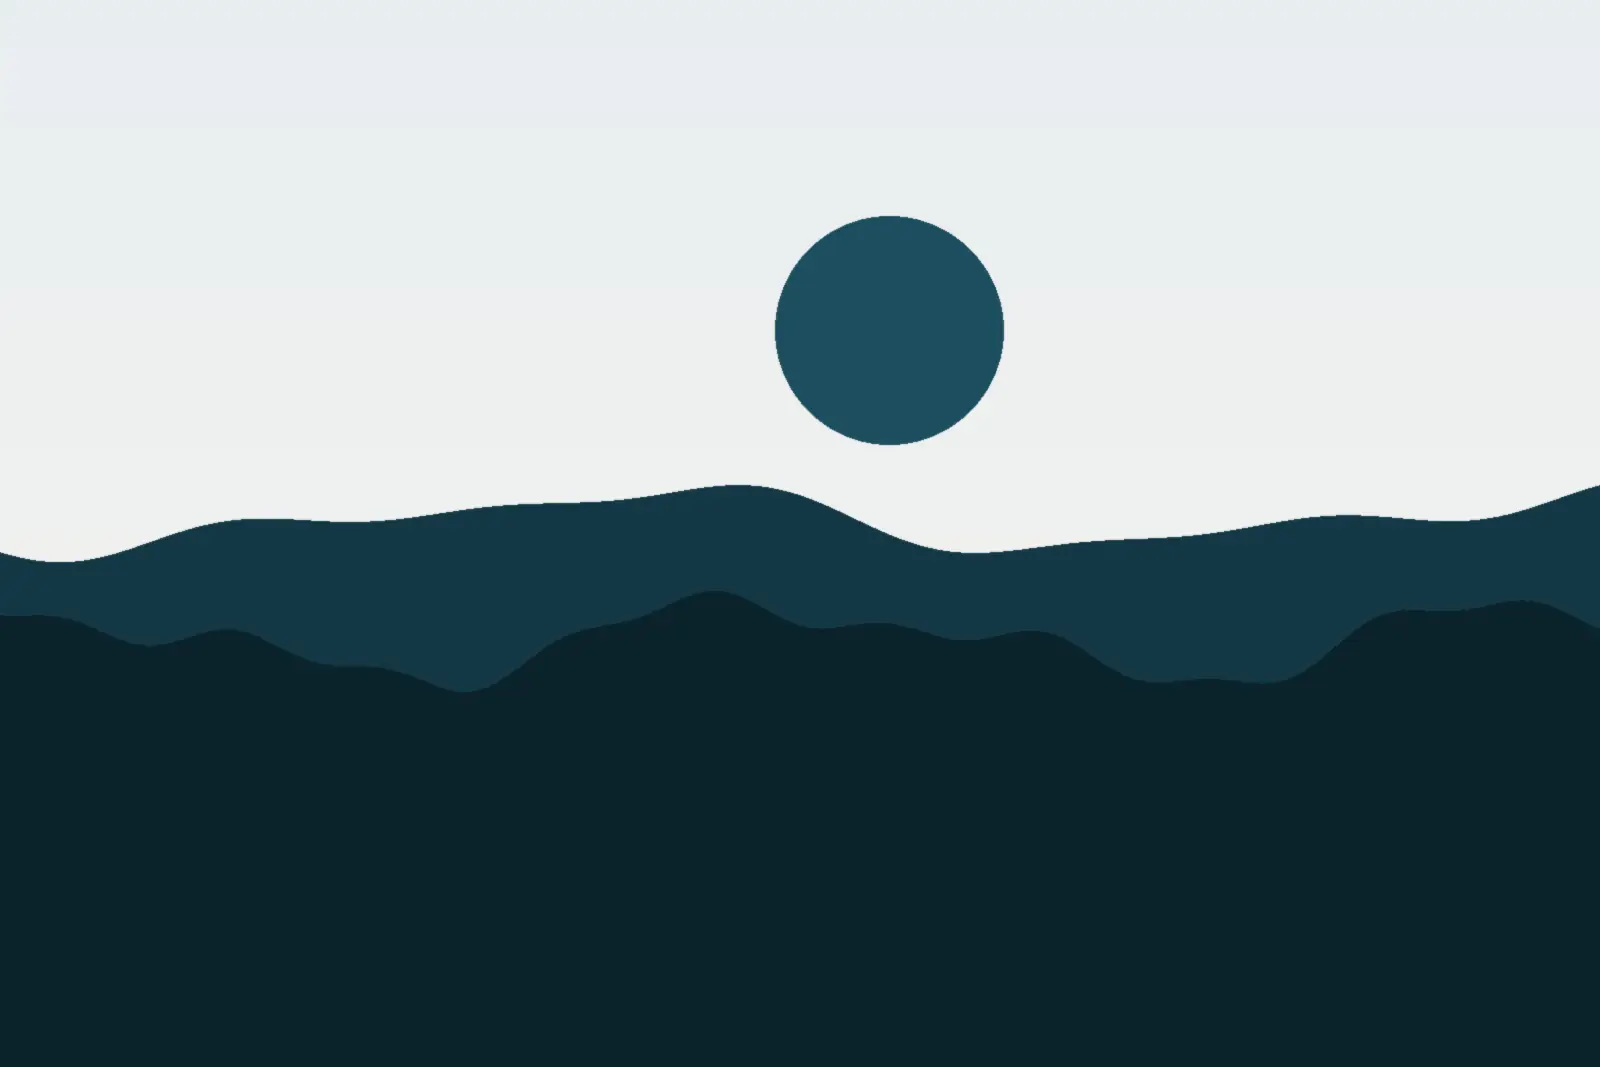
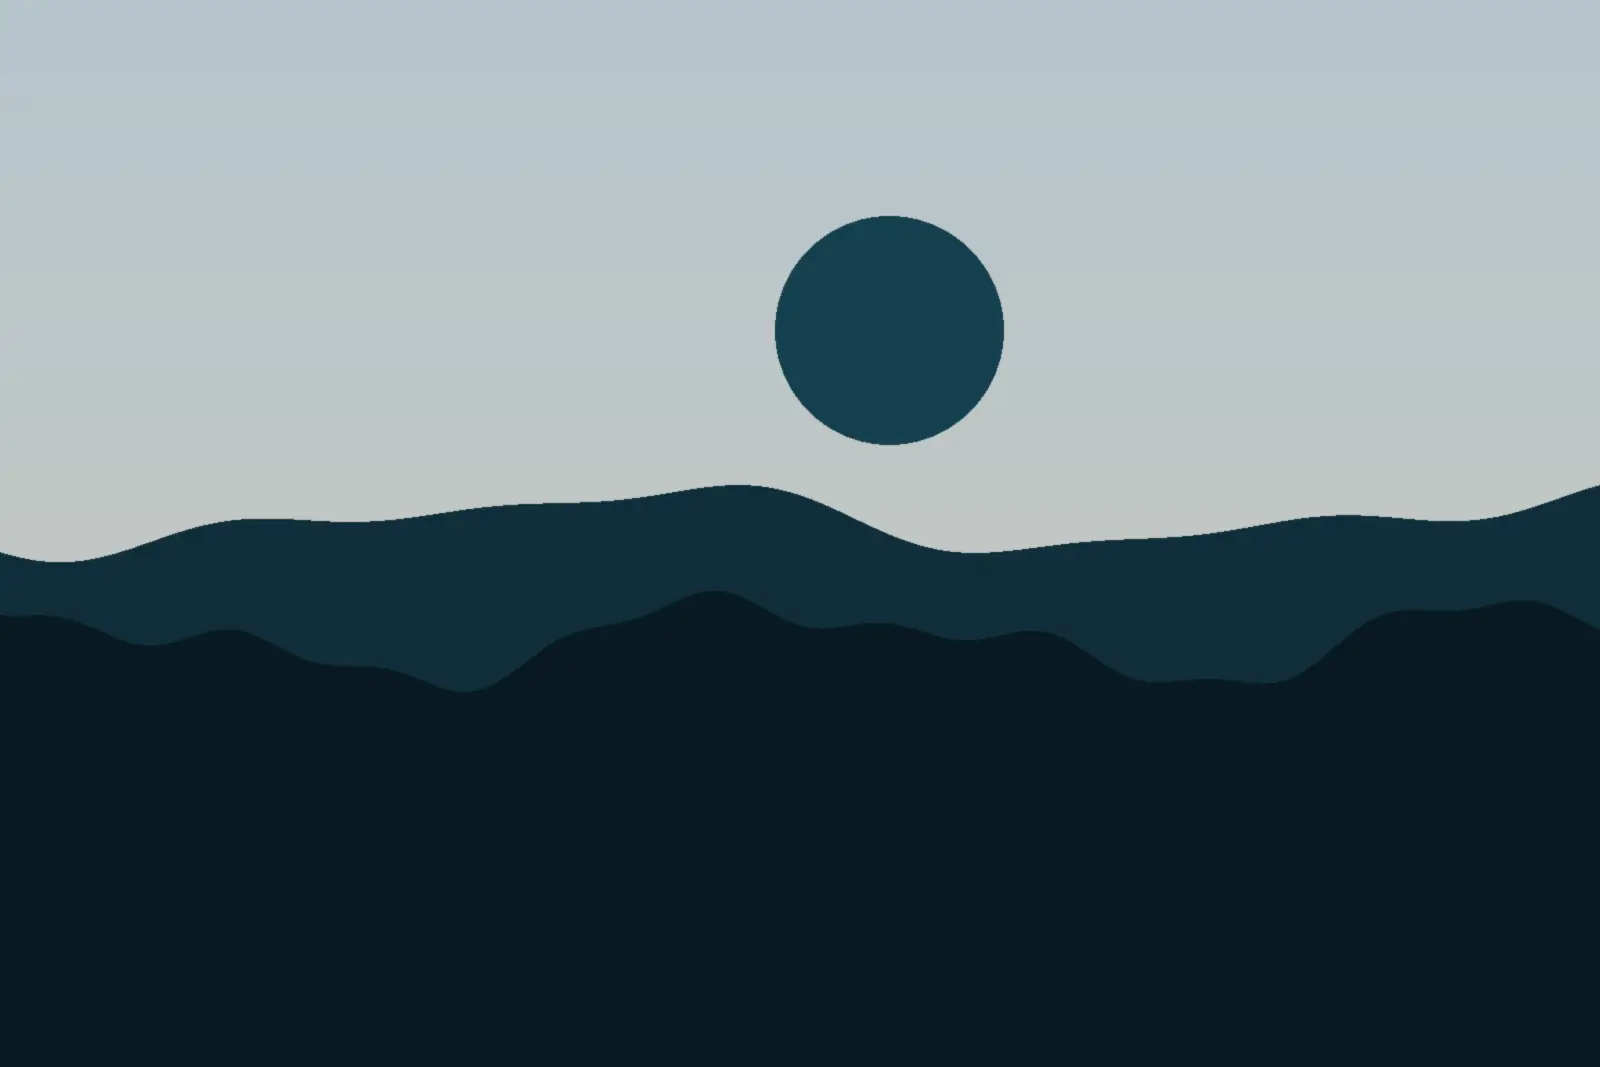
fix(a11y): ilustración del hero más oscura para que el antetítulo blanco llegue a 4,5:1 (A3/contrast_manual)

diff --git a/berawa/build/content_pension_bretxa_donostia.py b/berawa/build/content_pension_bretxa_donostia.py
@@ -8,7 +8,7 @@ RD={
 'fr':['Pour voyager seul ou à deux, au cœur de la Vieille Ville. Chambres insonorisées avec TV, chauffage et WiFi libre.','Pour les familles qui cherchent confort et proximité, idéale pour profiter ensemble de la Vieille Ville. Avec TV, chauffage et WiFi libre.'],
 'de':['Für Alleinreisende oder Paare, im Herzen der Altstadt. Schallisolierte Zimmer mit Fernseher, Heizung und freiem WLAN.','Für Familien, die Komfort und Nähe suchen, ideal, um gemeinsam die Altstadt zu genießen. Mit Fernseher, Heizung und freiem WLAN.']}
 ART={
-'hero':('waves',9601,['#e8eef1','#f5f2ec','#1d4e5f','#143846','#0b222b']),
+'hero':('waves',9601,['#b6c5cc','#ccc7bc','#15404f','#0f2e3a','#081a21']),
 'intro':('arches',9602,['#eef0ec','#e7b57f','#1d4e5f','#143846','#0b222b']),
 'r1':('skyline',9611,['#143846','#e6a96b','#f4d6a7','#8a4b2c','#6f3c23','#472616']),
 'r2':('hills',9612,['#e9eff0','#f1e6d0','#e5b474','#94b6b4','#628f8d','#406a68']),
